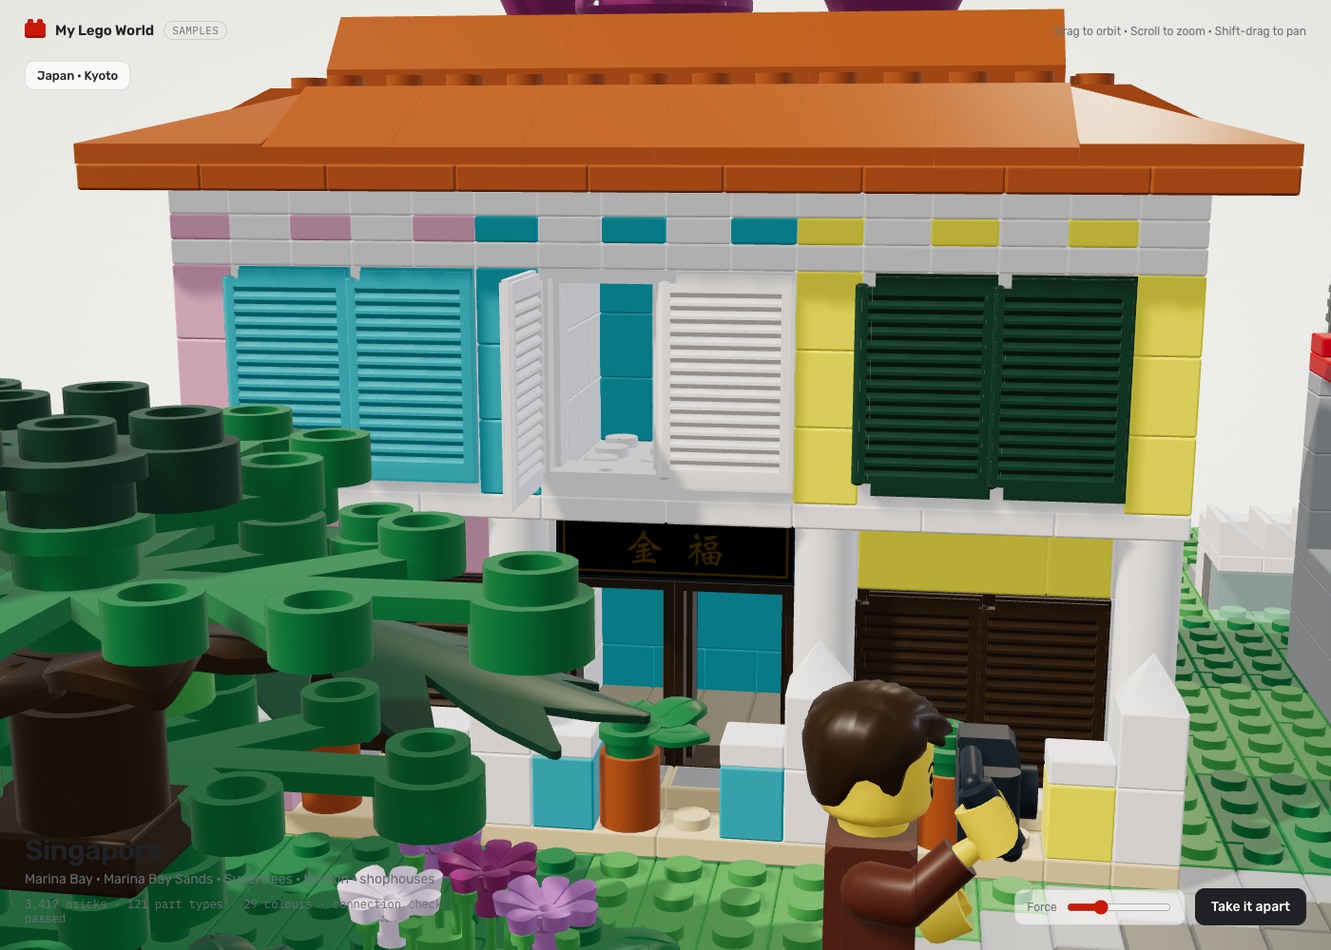
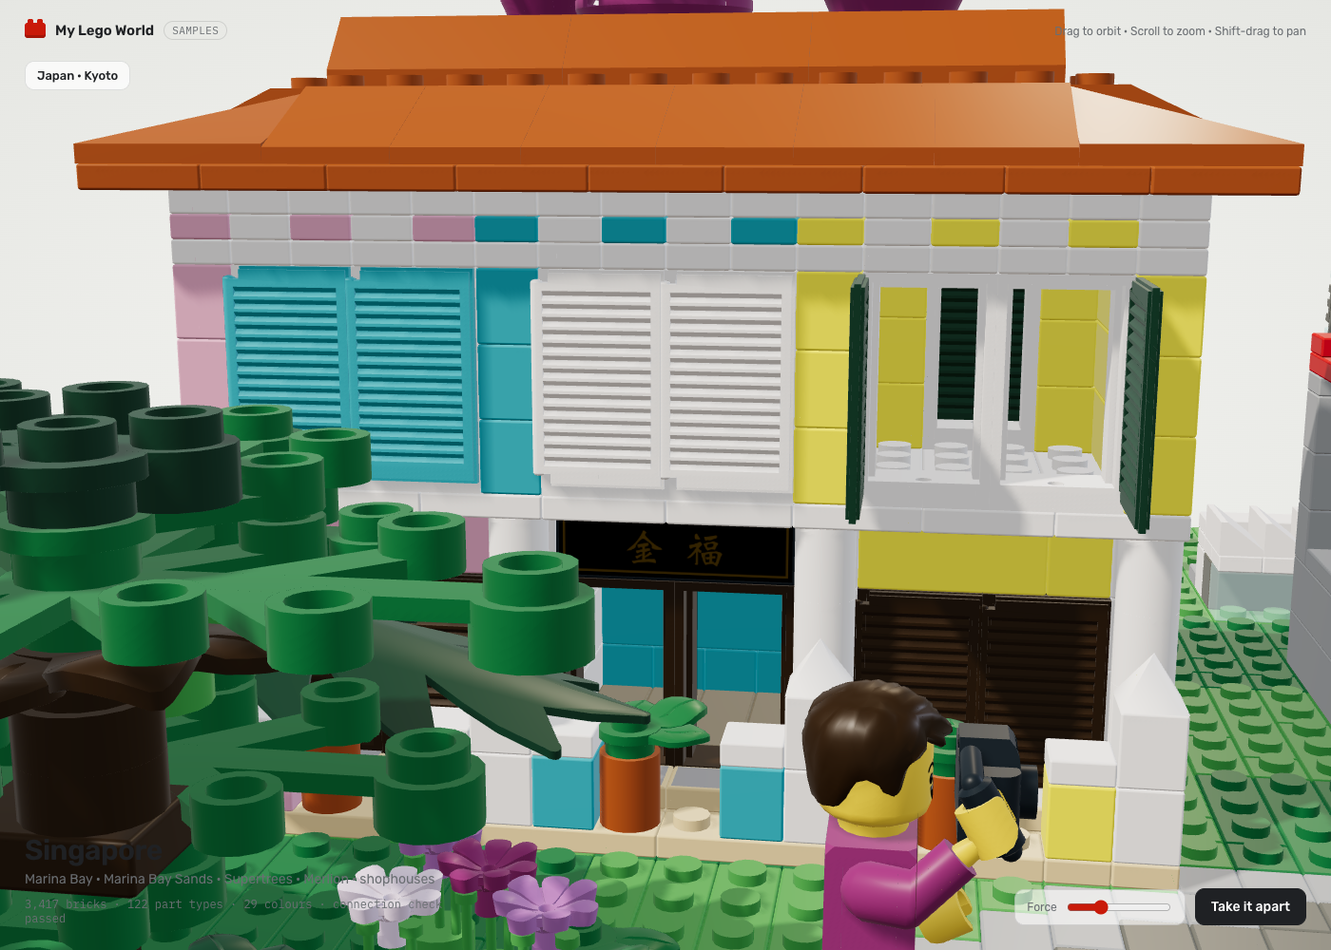
Shophouse: green house's shutter pair swung open, white closed; vivid magenta batik for the tourist. Playbook: layout/depth, colour and dress, moving parts, assemblies lessons from Singapore v7-v10

diff --git a/src/parts/ldraw/pshutter_open_r.ts b/src/parts/ldraw/pshutter_open_r.ts
@@ -1,0 +1,4 @@
+// LDraw part shutter_open_r "Window 1 x 2 x 3 Shutter, swung open 90° outward on the +x side of the frame (the right leaf of a pair)" — baked by tools/ldraw/bake.mjs from the LDraw official library (see source part license, ldraw.org). Do not edit.
+import type { Baked } from '../../core/ldraw';
[1 lines of base64/hex data omitted]
+export default p;

diff --git a/src/parts/ldraw/index.ts b/src/parts/ldraw/index.ts
@@ -169,6 +169,7 @@ import pmerlion_jet from './pmerlion_jet';
 import ppane_lattice from './ppane_lattice';
 import pshutter_closed from './pshutter_closed';
 import pshutter_open from './pshutter_open';
+import pshutter_open_r from './pshutter_open_r';
 import pstreecanopy_bowl from './pstreecanopy_bowl';
 import pstreecanopy_cone from './pstreecanopy_cone';
-export const LDRAW: Record<string, Baked> = { '11055': p11055, '11090': p11090, '11211': p11211, '11212': p11212, '11213': p11213, '11477': p11477, '11602': p11602, '11610': p11610, '12890': p12890, '15279': p15279, '15470': p15470, '15535': p15535, '18859': p18859, '2343': p2343, '23986': p23986, '2412b': p2412b, '2417': p2417, '2423': p2423, '24866': p24866, '2489': p2489, '2518': p2518, '25269': p25269, '2529': p2529, '2536b': p2536b, '26604': p26604, '27186': p27186, '27925': p27925, '29635': p29635, '3004': p3004, '3005': p3005, '30089b': p30089b, '3010': p3010, '3020': p3020, '3021': p3021, '30222': p30222, '3023': p3023, '3023b': p3023b, '3024': p3024, '3029': p3029, '30294c01': p30294c01, '3030': p3030, '3040b': p3040b, '30414': p30414, '30503': p30503, '3062b': p3062b, '3069b': p3069b, '3070b': p3070b, '3185': p3185, '32606': p32606, '32607': p32607, '3308a': p3308a, '33320': p33320, '34172': p34172, '3460': p3460, '35646': p35646, '3622': p3622, '3623': p3623, '3626c': p3626c, '3666': p3666, '3700': p3700, '3705': p3705, '3710': p3710, '3742': p3742, '3766': p3766, '37776': p37776, '3836': p3836, '3856': p3856, '3899': p3899, '3901': p3901, '39262': p39262, '3937': p3937, '3938': p3938, '3942c': p3942c, '3943b': p3943b, '40233': p40233, '4032a': p4032a, '40379': p40379, '4070': p4070, '4079': p4079, '4085c': p4085c, '4094b': p4094b, '41835': p41835, '42022': p42022, '42023': p42023, '4285b': p4285b, '44676b': p44676b, '4519': p4519, '4523': p4523, '4528': p4528, '4600': p4600, '4727': p4727, '4728': p4728, '4733': p4733, '47905': p47905, '48336': p48336, '49307': p49307, '49661': p49661, '50950': p50950, '54200': p54200, '60481a': p60481a, '60593': p60593, '61252': p61252, '6141': p6141, '6148': p6148, '61678': p61678, '6254': p6254, '6265': p6265, '62810': p62810, '64648': p64648, '65578': p65578, '6636': p6636, '67631': p67631, '78258': p78258, '80674': p80674, '85861': p85861, '87087': p87087, '87994': p87994, '92589': p92589, '93059': p93059, '93553': p93553, '93562': p93562, '95228': p95228, '970c00': p970c00, '98138': p98138, 'cart_wheel_l': pcart_wheel_l, 'cart_wheel_r': pcart_wheel_r, 'fighands_dd': pfighands_dd, 'fighands_df': pfighands_df, 'fighands_dh': pfighands_dh, 'fighands_du': pfighands_du, 'fighands_fd': pfighands_fd, 'fighands_ff': pfighands_ff, 'fighands_fh': pfighands_fh, 'fighands_fu': pfighands_fu, 'fighands_hd': pfighands_hd, 'fighands_hf': pfighands_hf, 'fighands_hh': pfighands_hh, 'fighands_hu': pfighands_hu, 'fighands_ud': pfighands_ud, 'fighands_uf': pfighands_uf, 'fighands_uh': pfighands_uh, 'fighands_uu': pfighands_uu, 'figtorso_dd': pfigtorso_dd, 'figtorso_df': pfigtorso_df, 'figtorso_dh': pfigtorso_dh, 'figtorso_du': pfigtorso_du, 'figtorso_fd': pfigtorso_fd, 'figtorso_ff': pfigtorso_ff, 'figtorso_fh': pfigtorso_fh, 'figtorso_fu': pfigtorso_fu, 'figtorso_hd': pfigtorso_hd, 'figtorso_hf': pfigtorso_hf, 'figtorso_hh': pfigtorso_hh, 'figtorso_hu': pfigtorso_hu, 'figtorso_ud': pfigtorso_ud, 'figtorso_uf': pfigtorso_uf, 'figtorso_uh': pfigtorso_uh, 'figtorso_uu': pfigtorso_uu, 'grove6': pgrove6, 'mbs10_tower': pmbs10_tower, 'mbstower_core': pmbstower_core, 'mbstower_glass': pmbstower_glass, 'merlion6': pmerlion6, 'merlion_body': pmerlion_body, 'merlion_face': pmerlion_face, 'merlion_jet': pmerlion_jet, 'pane_lattice': ppane_lattice, 'shutter_closed': pshutter_closed, 'shutter_open': pshutter_open, 'streecanopy_bowl': pstreecanopy_bowl, 'streecanopy_cone': pstreecanopy_cone };
+export const LDRAW: Record<string, Baked> = { '11055': p11055, '11090': p11090, '11211': p11211, '11212': p11212, '11213': p11213, '11477': p11477, '11602': p11602, '11610': p11610, '12890': p12890, '15279': p15279, '15470': p15470, '15535': p15535, '18859': p18859, '2343': p2343, '23986': p23986, '2412b': p2412b, '2417': p2417, '2423': p2423, '24866': p24866, '2489': p2489, '2518': p2518, '25269': p25269, '2529': p2529, '2536b': p2536b, '26604': p26604, '27186': p27186, '27925': p27925, '29635': p29635, '3004': p3004, '3005': p3005, '30089b': p30089b, '3010': p3010, '3020': p3020, '3021': p3021, '30222': p30222, '3023': p3023, '3023b': p3023b, '3024': p3024, '3029': p3029, '30294c01': p30294c01, '3030': p3030, '3040b': p3040b, '30414': p30414, '30503': p30503, '3062b': p3062b, '3069b': p3069b, '3070b': p3070b, '3185': p3185, '32606': p32606, '32607': p32607, '3308a': p3308a, '33320': p33320, '34172': p34172, '3460': p3460, '35646': p35646, '3622': p3622, '3623': p3623, '3626c': p3626c, '3666': p3666, '3700': p3700, '3705': p3705, '3710': p3710, '3742': p3742, '3766': p3766, '37776': p37776, '3836': p3836, '3856': p3856, '3899': p3899, '3901': p3901, '39262': p39262, '3937': p3937, '3938': p3938, '3942c': p3942c, '3943b': p3943b, '40233': p40233, '4032a': p4032a, '40379': p40379, '4070': p4070, '4079': p4079, '4085c': p4085c, '4094b': p4094b, '41835': p41835, '42022': p42022, '42023': p42023, '4285b': p4285b, '44676b': p44676b, '4519': p4519, '4523': p4523, '4528': p4528, '4600': p4600, '4727': p4727, '4728': p4728, '4733': p4733, '47905': p47905, '48336': p48336, '49307': p49307, '49661': p49661, '50950': p50950, '54200': p54200, '60481a': p60481a, '60593': p60593, '61252': p61252, '6141': p6141, '6148': p6148, '61678': p61678, '6254': p6254, '6265': p6265, '62810': p62810, '64648': p64648, '65578': p65578, '6636': p6636, '67631': p67631, '78258': p78258, '80674': p80674, '85861': p85861, '87087': p87087, '87994': p87994, '92589': p92589, '93059': p93059, '93553': p93553, '93562': p93562, '95228': p95228, '970c00': p970c00, '98138': p98138, 'cart_wheel_l': pcart_wheel_l, 'cart_wheel_r': pcart_wheel_r, 'fighands_dd': pfighands_dd, 'fighands_df': pfighands_df, 'fighands_dh': pfighands_dh, 'fighands_du': pfighands_du, 'fighands_fd': pfighands_fd, 'fighands_ff': pfighands_ff, 'fighands_fh': pfighands_fh, 'fighands_fu': pfighands_fu, 'fighands_hd': pfighands_hd, 'fighands_hf': pfighands_hf, 'fighands_hh': pfighands_hh, 'fighands_hu': pfighands_hu, 'fighands_ud': pfighands_ud, 'fighands_uf': pfighands_uf, 'fighands_uh': pfighands_uh, 'fighands_uu': pfighands_uu, 'figtorso_dd': pfigtorso_dd, 'figtorso_df': pfigtorso_df, 'figtorso_dh': pfigtorso_dh, 'figtorso_du': pfigtorso_du, 'figtorso_fd': pfigtorso_fd, 'figtorso_ff': pfigtorso_ff, 'figtorso_fh': pfigtorso_fh, 'figtorso_fu': pfigtorso_fu, 'figtorso_hd': pfigtorso_hd, 'figtorso_hf': pfigtorso_hf, 'figtorso_hh': pfigtorso_hh, 'figtorso_hu': pfigtorso_hu, 'figtorso_ud': pfigtorso_ud, 'figtorso_uf': pfigtorso_uf, 'figtorso_uh': pfigtorso_uh, 'figtorso_uu': pfigtorso_uu, 'grove6': pgrove6, 'mbs10_tower': pmbs10_tower, 'mbstower_core': pmbstower_core, 'mbstower_glass': pmbstower_glass, 'merlion6': pmerlion6, 'merlion_body': pmerlion_body, 'merlion_face': pmerlion_face, 'merlion_jet': pmerlion_jet, 'pane_lattice': ppane_lattice, 'shutter_closed': pshutter_closed, 'shutter_open': pshutter_open, 'shutter_open_r': pshutter_open_r, 'streecanopy_bowl': pstreecanopy_bowl, 'streecanopy_cone': pstreecanopy_cone };

diff --git a/src/core/prints.ts b/src/core/prints.ts
@@ -108,17 +108,17 @@ const AZURE = '#36AEBF', DKGRAY = '#6C6E68', TAN = '#E4CD9E', DKPINK = '#C870A0'
 def({ key: 'face_hawker', zh: '脸·小贩（咧嘴笑、汗珠）', colors: ['Black', 'White', 'Medium Azure'], firstUse: 'Singapore', ...FACE, draw: (ctx, w, h) => { eyes(ctx, w, h, 0.42, 0.05, 'raised'); ctx.fillStyle = INK; ctx.beginPath(); ctx.arc(w / 2, h * 0.54, w * 0.17, 0, Math.PI); ctx.closePath(); ctx.fill(); ctx.fillStyle = WHITE; ctx.fillRect(w * 0.36, h * 0.545, w * 0.28, h * 0.06); ctx.fillStyle = AZURE; ctx.beginPath(); ctx.moveTo(w * 0.82, h * 0.22); ctx.lineTo(w * 0.86, h * 0.34); ctx.arc(w * 0.82, h * 0.34, w * 0.04, 0, Math.PI); ctx.closePath(); ctx.fill(); } });
 def({ key: 'face_uncle', zh: '脸·大叔（胡子、笑纹）', colors: ['Black', 'Dark Bluish Gray'], firstUse: 'Singapore', ...FACE, draw: (ctx, w, h) => { eyes(ctx, w, h, 0.41, 0.045, 'flat'); ctx.strokeStyle = INK; ctx.lineWidth = w * 0.02; ctx.beginPath(); ctx.moveTo(w * 0.27, h * 0.47); ctx.lineTo(w * 0.31, h * 0.5); ctx.moveTo(w * 0.73, h * 0.47); ctx.lineTo(w * 0.69, h * 0.5); ctx.stroke(); ctx.fillStyle = DKGRAY; ctx.beginPath(); ctx.ellipse(w * 0.42, h * 0.56, w * 0.09, h * 0.035, -0.25, 0, Math.PI * 2); ctx.ellipse(w * 0.58, h * 0.56, w * 0.09, h * 0.035, 0.25, 0, Math.PI * 2); ctx.fill(); arc(ctx, w / 2, h * 0.56, w * 0.14, Math.PI * 0.22, Math.PI * 0.78, w * 0.03, INK); } });
 def({ key: 'torso_hawker', zh: '小贩·围裙搭毛巾', colors: ['Tan', 'Dark Red', 'Black'], firstUse: 'Singapore', ...TORSO, draw: (ctx, w, h) => { ctx.fillStyle = TAN; ctx.fillRect(w * 0.2, h * 0.34, w * 0.6, h * 0.66); ctx.strokeStyle = TAN; ctx.lineWidth = w * 0.06; ctx.beginPath(); ctx.moveTo(w * 0.27, h * 0.34); ctx.lineTo(w * 0.38, 0); ctx.moveTo(w * 0.73, h * 0.34); ctx.lineTo(w * 0.62, 0); ctx.stroke(); ctx.strokeStyle = INK; ctx.lineWidth = w * 0.018; ctx.strokeRect(w * 0.34, h * 0.62, w * 0.32, h * 0.22); ctx.beginPath(); ctx.moveTo(w * 0.2, h * 0.56); ctx.lineTo(w * 0.8, h * 0.56); ctx.stroke(); ctx.fillStyle = DARKRED; ctx.beginPath(); ctx.moveTo(w * 0.06, 0); ctx.lineTo(w * 0.3, 0); ctx.lineTo(w * 0.22, h * 0.3); ctx.lineTo(w * 0.02, h * 0.3); ctx.closePath(); ctx.fill(); } });   // tan apron, pocket, a red towel over the shoulder
-// Eric 10-01: the tourist should look Nanyang. A sogan batik shirt — the brown-and-cream batik worn across Singapore and Malaysia — with the
-// kawung motif (four ovals round a centre, on a diagonal grid), the oldest batik pattern and legible at thumbnail size; cream placket.
-def({ key: 'torso_batik', zh: '游客·棕底米色 kawung 蜡染衫（南洋 batik）', colors: ['Tan', 'Dark Brown'], firstUse: 'Singapore', ...TORSO, draw: (ctx, w, h) => {
-  const BR = '#352100'; const s = w * 0.3;
+// Eric 10-01/02: the tourist should look Nanyang, and bright — the brown sogan read dull. A vivid Peranakan-style batik shirt: magenta
+// ground (the torso colour), the kawung flower in yellow with an azure heart on a diagonal grid, a yellow placket and open collar.
+def({ key: 'torso_batik', zh: '游客·洋红底黄花 batik 衫（南洋蜡染）', colors: ['Yellow', 'Medium Azure'], firstUse: 'Singapore', ...TORSO, draw: (ctx, w, h) => {
+  const s = w * 0.3;
   for (let gy = -1; gy <= Math.ceil(h / s) + 1; gy++) for (let gx = -1; gx <= Math.ceil(w / s) + 1; gx++) {
     const cx = gx * s + (gy % 2 ? s / 2 : 0), cy = gy * s * 0.9;
-    for (let k = 0; k < 4; k++) { ctx.save(); ctx.translate(cx, cy); ctx.rotate(Math.PI / 4 + k * Math.PI / 2); ctx.fillStyle = TAN; ctx.beginPath(); ctx.ellipse(s * 0.24, 0, s * 0.2, s * 0.1, 0, 0, Math.PI * 2); ctx.fill(); ctx.restore(); }
-    dot(ctx, cx, cy, s * 0.06, BR);
+    for (let k = 0; k < 4; k++) { ctx.save(); ctx.translate(cx, cy); ctx.rotate(Math.PI / 4 + k * Math.PI / 2); ctx.fillStyle = YELLOW; ctx.beginPath(); ctx.ellipse(s * 0.24, 0, s * 0.2, s * 0.11, 0, 0, Math.PI * 2); ctx.fill(); ctx.restore(); }
+    dot(ctx, cx, cy, s * 0.09, AZURE);
   }
-  ctx.fillStyle = TAN; ctx.fillRect(w * 0.47, h * 0.28, w * 0.06, h * 0.72);                                                       // placket
-  ctx.fillStyle = BR; ctx.beginPath(); ctx.moveTo(w * 0.32, 0); ctx.lineTo(w * 0.5, h * 0.3); ctx.lineTo(w * 0.68, 0); ctx.closePath(); ctx.fill();   // open collar
+  ctx.fillStyle = YELLOW; ctx.fillRect(w * 0.47, h * 0.28, w * 0.06, h * 0.72);                                                    // placket
+  ctx.fillStyle = AZURE; ctx.beginPath(); ctx.moveTo(w * 0.32, 0); ctx.lineTo(w * 0.5, h * 0.3); ctx.lineTo(w * 0.68, 0); ctx.closePath(); ctx.fill();   // open collar
 } });
 def({ key: 'torso_vendor', zh: '冰淇淋大叔·白衫蓝领', colors: ['Medium Azure', 'Black'], firstUse: 'Singapore', ...TORSO, draw: (ctx, w, h) => { ctx.strokeStyle = AZURE; ctx.lineWidth = w * 0.08; ctx.beginPath(); ctx.moveTo(w * 0.3, 0); ctx.lineTo(w * 0.5, h * 0.26); ctx.lineTo(w * 0.7, 0); ctx.stroke(); ctx.fillStyle = AZURE; ctx.fillRect(0, h * 0.86, w, h * 0.14); ctx.fillRect(w * 0.6, h * 0.42, w * 0.22, h * 0.2); ctx.strokeStyle = INK; ctx.lineWidth = w * 0.015; ctx.beginPath(); for (const y of [0.4, 0.55, 0.7]) { ctx.moveTo(w * 0.5 - w * 0.012, h * y); ctx.lineTo(w * 0.5 + w * 0.012, h * y); } ctx.stroke(); dot(ctx, w * 0.71, h * 0.47, w * 0.03, WHITE); } });   // vendor's white shirt: azure collar, pocket badge, belt band
 def({ key: 'sign_chickenrice', zh: '小贩招牌「鸡饭 CHICKEN RICE」（1×6 砖长侧面，中英双语，印刷体）', colors: ['Yellow', 'Black', 'Red'], firstUse: 'Singapore', face: 'side', base: 'brick_1x6', px: 360, draw: (ctx, w, h) => {

diff --git a/src/core/catalog.ts b/src/core/catalog.ts
@@ -310,6 +310,7 @@ ldrawPart({ ...PLT, key: 'palm_leaf_s', id: '6148', bl: '6148', name: 'Plant Pal
 // Shophouse and street furniture
 ldrawPart({ key: 'shutter_1x2x3', id: 'shutter_closed', bl: '3856', name: 'Window 1 x 2 x 3 Shutter (closed)', zh: '百叶窗扇 1×2×3（关）', cat: 'window', w: 2, d: 1, h: 9, studs: 'none', accepts: false, anchor: 'origin', lift: 9, showColor: 'DarkGreen', note: '装在 1×2×3 窗框上，贴着窗框 +z 面关闭；与窗框同格同原点（宿主规则）。娘惹店屋的百叶' });
 ldrawPart({ key: 'shutter_open_1x2x3', id: 'shutter_open', bl: '3856', name: 'Window 1 x 2 x 3 Shutter (open)', zh: '百叶窗扇 1×2×3（开）', cat: 'window', w: 2, d: 1, h: 9, studs: 'none', accepts: false, anchor: 'origin', lift: 9, showColor: 'DarkGreen', note: '同一扇 3856，绕 −x 侧铰链向外转 90°，垂直于立面；与窗框同格同原点。店屋一扇推开的百叶（Eric 10-01）' });
+ldrawPart({ key: 'shutter_open_r_1x2x3', id: 'shutter_open_r', bl: '3856', name: 'Window 1 x 2 x 3 Shutter (open, right hinge)', zh: '百叶窗扇 1×2×3（开，右铰）', cat: 'window', w: 2, d: 1, h: 9, studs: 'none', accepts: false, anchor: 'origin', lift: 9, showColor: 'DarkGreen', note: '同一扇 3856 挂在窗框 +x 侧，向外转 90°；和左铰那扇成一对，左右对称地推开' });
 ldrawPart({ key: 'plate_4x4_cut', id: '30503', bl: '30503', name: 'Plate 4 x 4 without Corner', zh: '切角板 4×4', cat: 'plate-mod', w: 4, d: 4, h: 1, studs: 'all', accepts: true, anchor: 'origin', lift: 1, mask: (i, j) => i + j < 5, showColor: 'White', note: '对角切去 (+x,+z) 一角；圆角岸线、甲板端头' });
 ldrawPart({ key: 'roundplate_6x6', id: '11213', bl: '11213', name: 'Plate 6 x 6 Round with Hole', zh: '圆板 6×6（中孔）', cat: 'plate-mod', w: 6, d: 6, h: 1, studs: 'all', accepts: true, anchor: 'origin', lift: 1, mask: (i, j) => Math.hypot(i + 0.5 - 3, j + 0.5 - 3) < 2.9, showColor: 'LightBluishGray', note: '擎天树冠顶：1→2→4→6 逐级张开的最后一级' });
 ldrawPart({ key: 'wheelplate_2x2', id: '4600', bl: '4600', name: 'Plate 2 x 2 with 2 Wheel Pins', zh: '轮销板 2×2', cat: 'plate-mod', w: 2, d: 2, h: 1, studs: 'all', accepts: true, anchor: 'origin', lift: 1, ext: [-1.7, 1.7, -1, 1], showColor: 'LightBluishGray', note: '±x 各一根轮销；轮子是与它同格同原点的装配件' });

diff --git a/src/scenes/singapore-island.ts b/src/scenes/singapore-island.ts
@@ -93,7 +93,7 @@ export function buildSingaporeLayout(bp: Blueprint, L: Layout): SceneMeta {
   // ---- life layer
   bp.tag = 'cart'; ground.add('cart', L.cart[0] + 1, L.cart[1] + 1, 1.5, 'uncle'); iceCreamCart(bp, L.cart[0], G, L.cart[1], L.cart[2], 'LightBluishGray', R, 'cart_side');
   bp.tag = 'minifig'; ground.add('uncle', L.uncle[0], L.uncle[1], 1, 'uncle'); minifig2(bp, L.uncle[0], G, L.uncle[1], L.uncle[2], { legs: 'DarkBlue', torso: 'White', face: 'face_uncle', torsoPrint: 'torso_vendor', hair: 'DarkBluishGray', hairKey: 'hair_tousled', hold: [{ key: 'icecream_cone', color: 'Tan', hand: 'R' }] }, R);
-  ground.add('tourist', L.tourist[0], L.tourist[1], 1); minifig2(bp, L.tourist[0], G, L.tourist[1], L.tourist[2], { legs: 'Tan', torso: 'ReddishBrown', face: 'face_grin', torsoPrint: 'torso_batik', hair: 'DarkBrown', hairKey: 'hair_tousled', hold: [{ key: 'camera', color: 'Black', hand: 'R' }] }, R);
+  ground.add('tourist', L.tourist[0], L.tourist[1], 1); minifig2(bp, L.tourist[0], G, L.tourist[1], L.tourist[2], { legs: 'Tan', torso: 'Magenta', face: 'face_grin', torsoPrint: 'torso_batik', hair: 'DarkBrown', hairKey: 'hair_tousled', hold: [{ key: 'camera', color: 'Black', hand: 'R' }] }, R);
   // otters: on the bank, or swimming — on the water with a white wake behind (Marina Bay's otter families swim the bay daily)
   bp.tag = 'animals';
   for (const [x, z, r] of L.otters) {

diff --git a/src/core/validate.ts b/src/core/validate.ts
@@ -8,7 +8,7 @@ export interface Report { ok: boolean; parts: number; floating: number; overlaps
 
 interface Item { i: number; p: Placement; def: PartDef; x0: number; x1: number; z0: number; z1: number; y0: number; y1: number; cells: [number, number][]; studs: [number, number][]; rect?: [number, number, number, number] }
 
-export const HOSTS: Record<string, string> = { shutter_open_1x2x3: 'window_1x2x3', glass_1x2x2: 'window_1x2x2', glass_1x4x3: 'window_1x4x3', door_1x4x6: 'doorframe_1x4x6', pane_lattice_1x2x3: 'window_1x2x3', door_lattice: 'doorframe_1x4x6', shutter_1x2x3: 'window_1x2x3', cart_wheel_l: 'wheelplate_2x2', cart_wheel_r: 'wheelplate_2x2', merlion_jet: 'merlion_body', mbs_glass: 'mbs_core', stree_bowl: 'stree_cone' };
+export const HOSTS: Record<string, string> = { shutter_open_1x2x3: 'window_1x2x3', shutter_open_r_1x2x3: 'window_1x2x3', glass_1x2x2: 'window_1x2x2', glass_1x4x3: 'window_1x4x3', door_1x4x6: 'doorframe_1x4x6', pane_lattice_1x2x3: 'window_1x2x3', door_lattice: 'doorframe_1x4x6', shutter_1x2x3: 'window_1x2x3', cart_wheel_l: 'wheelplate_2x2', cart_wheel_r: 'wheelplate_2x2', merlion_jet: 'merlion_body', mbs_glass: 'mbs_core', stree_bowl: 'stree_cone' };
 const BARS = new Set(['bar_3l', 'bar_4l']);
 const isBar = (it: Item) => BARS.has(it.p.key) || !!it.def.bar;
 const isHollow = (it: Item) => HOLLOW.has(it.p.key) || !!it.def.hollow;

diff --git a/src/scenes/singapore-v4.ts b/src/scenes/singapore-v4.ts
@@ -118,8 +118,8 @@ export function shophouse2(bp: Blueprint, ox: number, y0: number, oz: number, ro
       for (let lx = bx + 1; lx <= bx + 4; lx++) vox('plate', lx, uy + dy, 0, TRIM);
       for (let lx = bx; lx <= bx + 4; lx++) vox('plate', lx, uy + dy, 5, dent && (lx - bx) % 2 === 0 ? C : TRIM);
     }
-    // one shutter of the terrace pushed open (Eric 10-01): the middle house's left window, so the street front has a gesture of life
-    for (const wx of [bx + 1, bx + 3]) { part('window_1x2x3', wx, uy, 5, TRIM); part(i === 1 && wx === bx + 1 ? 'shutter_open_1x2x3' : 'shutter_1x2x3', wx, uy, 5, S); }
+    // the green-shuttered house has both windows pushed open, the pair swung out to either side (Eric 10-02); the others closed
+    for (const wx of [bx + 1, bx + 3]) { part('window_1x2x3', wx, uy, 5, TRIM); part(i !== 2 ? 'shutter_1x2x3' : wx === bx + 1 ? 'shutter_open_1x2x3' : 'shutter_open_r_1x2x3', wx, uy, 5, S); }
     part('window_1x2x3', bx + 2, uy, 0, TRIM, 2); part('shutter_1x2x3', bx + 2, uy, 0, S, 2);
     // forecourt (z 6): low pastel walls each side of an open gate, white gate pillars with pyramid caps at the pilasters, a potted plant in the gate
     for (const lx of [bx + 1, bx + 4]) { part('brick_1x1', lx, y0 + 1, 6, C); part('tile_1x1', lx, y0 + 4, 6, TRIM); }

diff --git a/src/parts/ldraw/asm/index.ts b/src/parts/ldraw/asm/index.ts
@@ -8,6 +8,7 @@ import a_merlion6 from './merlion6';
 import a_merlion_body from './merlion_body';
 import a_merlion_jet from './merlion_jet';
 import a_shutter_open from './shutter_open';
+import a_shutter_open_r from './shutter_open_r';
 import a_streecanopy_bowl from './streecanopy_bowl';
 import a_streecanopy_cone from './streecanopy_cone';
-export const ASM: Record<string, Member[]> = { 'grove6': a_grove6, 'mbs10_tower': a_mbs10_tower, 'mbstower_core': a_mbstower_core, 'mbstower_glass': a_mbstower_glass, 'merlion6': a_merlion6, 'merlion_body': a_merlion_body, 'merlion_jet': a_merlion_jet, 'shutter_open': a_shutter_open, 'streecanopy_bowl': a_streecanopy_bowl, 'streecanopy_cone': a_streecanopy_cone };
+export const ASM: Record<string, Member[]> = { 'grove6': a_grove6, 'mbs10_tower': a_mbs10_tower, 'mbstower_core': a_mbstower_core, 'mbstower_glass': a_mbstower_glass, 'merlion6': a_merlion6, 'merlion_body': a_merlion_body, 'merlion_jet': a_merlion_jet, 'shutter_open': a_shutter_open, 'shutter_open_r': a_shutter_open_r, 'streecanopy_bowl': a_streecanopy_bowl, 'streecanopy_cone': a_streecanopy_cone };

diff --git a/src/parts/ldraw/asm/shutter_open_r.ts b/src/parts/ldraw/asm/shutter_open_r.ts
@@ -1,0 +1,5 @@
+// Members of assembly shutter_open_r — generated by tools/ldraw/bake.mjs from vendor/ldraw/asm/shutter_open_r.ldr. Do not edit.
+// One entry per real brick: LDraw part id, colour key, position (studs, ours: y up) and 3×3 rotation (row-major), relative to the assembly's LDraw origin.
+import type { Member } from '../../../core/ldraw';
+const m: Member[] = [{"id":"3856","color":"","p":[1,0,0.6],"m":[1,0,0,0,1,0,0,0,1]}];
+export default m;

diff --git a/docs/country-playbook.md b/docs/country-playbook.md
@@ -45,6 +45,21 @@ One page. Read it before starting a country; update it when a country teaches so
 
 **Judging renders:** camera position = target + (sin az · c, sin el · dist, cos az · c): az 0 is +z, π/2 is +x, π is −z, 3π/2 is −x. Put the camera outside the island on the element's own side; every figure gets a front and a side; element close-ups and silhouettes use `?only=<tag>[,tag]` so nothing else is in frame; check each image before the judge sees it — rounds 2 and 3 each lost points to mis-aimed shots.
 
+**Layout and depth (Singapore v7–v10, Eric 2026-10-01/02):**
+- Heights step down toward the default camera: tallest at the back (hero landmark), then the next tier, the lowest buildings in front. A lower thing never stands behind a taller one that hides it (the shophouse hid the Supertrees until it moved in front of them).
+- Nothing stands between the camera and a figure's face or a landmark's signature view; drop a tree before you accept the overlap. Keep the front third low and open.
+- A figure photographing something faces it across open space (water, lawn), never from behind it.
+- Animals live where the real ones are seen (otters on the bank, not in the pond) and are placed apart, each with its own spot — two touching read as a mistake.
+- Cut props the scale cannot make readable (a 10-stud boat was a red box); set dressing must read or go (rule 6).
+- At the island checkpoint show 2–3 layouts of the same elements side by side; Eric chose between them faster than he could have described one.
+- Plant from candidate lists that place only where the spacing rules allow, and log every rejected candidate with its reason; too few plants reads as not tropical, too many small tufts read as dark blotches.
+
+**Colour and dress:** decide a material colour by rendering 3–5 candidates side by side (MBS glass: trans-light-blue over dark grey won over trans-black, sand green, and trans-light-blue over white). Figures wear what the place wears, in its bright register: a batik shirt in a vivid ground reads Nanyang, a brown one reads drab.
+
+**Moving parts:** one opened element (a shutter pair, a door) gives a façade life; build it from the same official mould rotated on its real hinge, hosted at the frame's origin, and open pairs symmetrically.
+
+**Assemblies:** author studs-out builds in our own frame with `tools/ldraw/asm-ours.mjs` (`up`, `side`, `onStud`, `exposed()` reports any side stud left bare), then `bp.assembly()`; `scripts/check-assemblies.ts` proves the exploded bricks match the monolith and that no brick inside clashes or floats.
+
 ## 4. Grammar quick reference (`src/scenes/lib.ts`)
 - `minifig2(bp, cx, y, cz, rot, opts, reserve)` — the only figure entry: legs / posed torso / hands / head / hair, printed face + torso, `hold: [{ key, color, hand, pose }]` via `HOLD_DEFAULTS`. `holdUmbrella(...)` for the parasol.
 - `tree(bp, x, y, z, size, reserve, turn, skip, kind)` — the tree armature; `kind` picks foliage ('sakura' | 'pine' today; add a kind per country in `Foliage`). `bamboo`, `bush`, `blossom` (flower on a round plate).
@@ -54,7 +69,8 @@ One page. Read it before starting a country; update it when a country teaches so
 - Legacy (`sakura`, `sakura3`, `sakuraA`, `sakura4`, `sakura5` alias, `pine3`, `canopyLayers`, `banner`) stay only for the Tokyo sample and the test scenes; do not use them for a new country.
 
 ## 5. Before the judge sees it — self-check list
-- [ ] validator PASS for every scene, parts ≤ 3,000, specialty ≥ 8 %
+- [ ] `npm run gate` PASS (comment lint, typecheck, assembly audit, validator with the overhang-hull check); parts ≤ 3,000, specialty ≥ 8 %
+- [ ] heights step down toward the camera; no tree or building covers a figure's face or a landmark's signature view
 - [ ] hero render + 4 quadrants looked at: three height tiers read, ≥ 1/3 open, nothing touches a roof
 - [ ] each figure: two close-ups; hands closed on things, no post visible, pose a real minifig can hold
 - [ ] each tree: canopy reads as a mass from the hero distance; no coat-rack silhouettes
